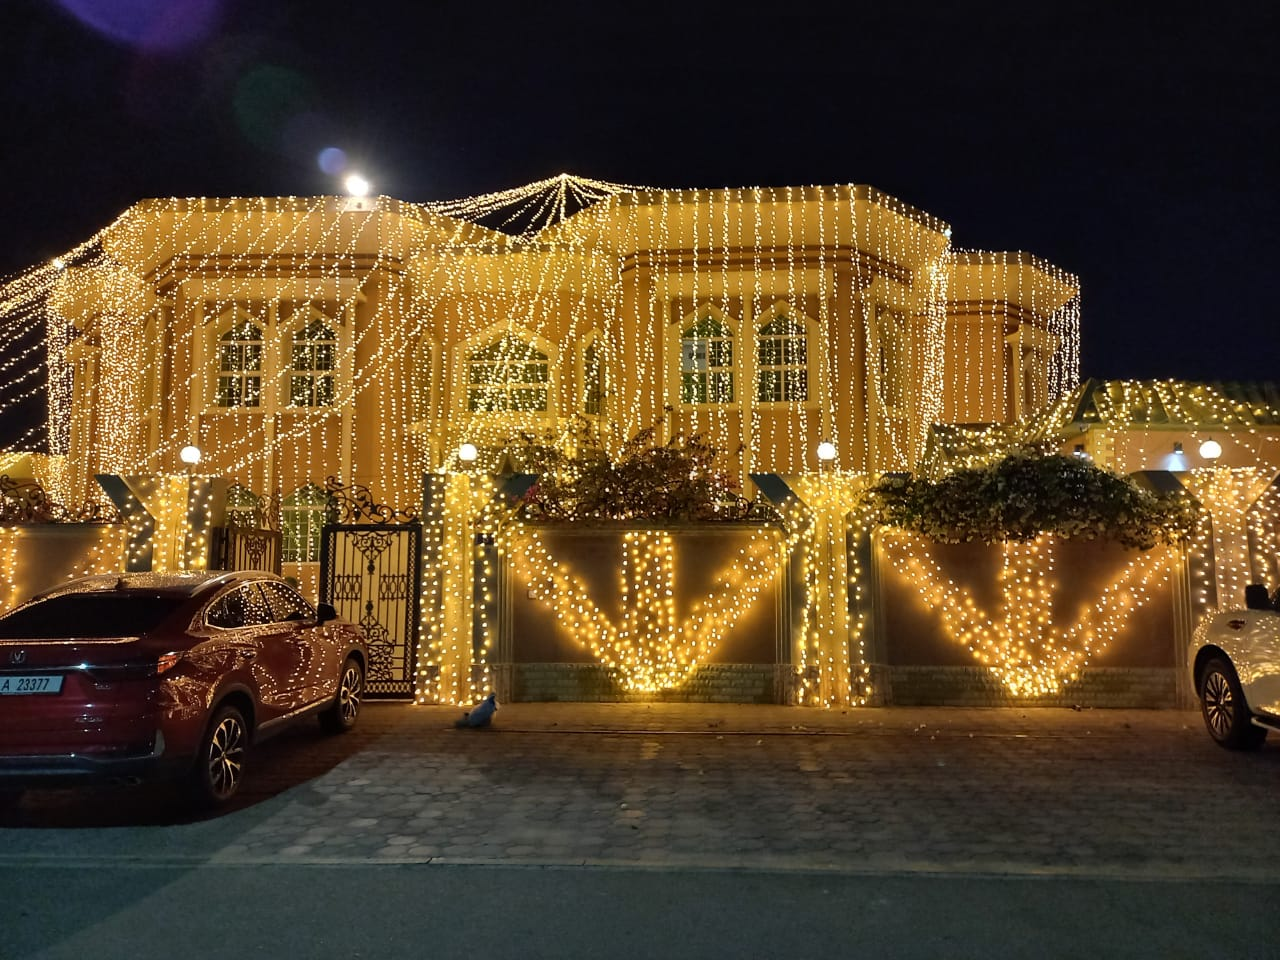
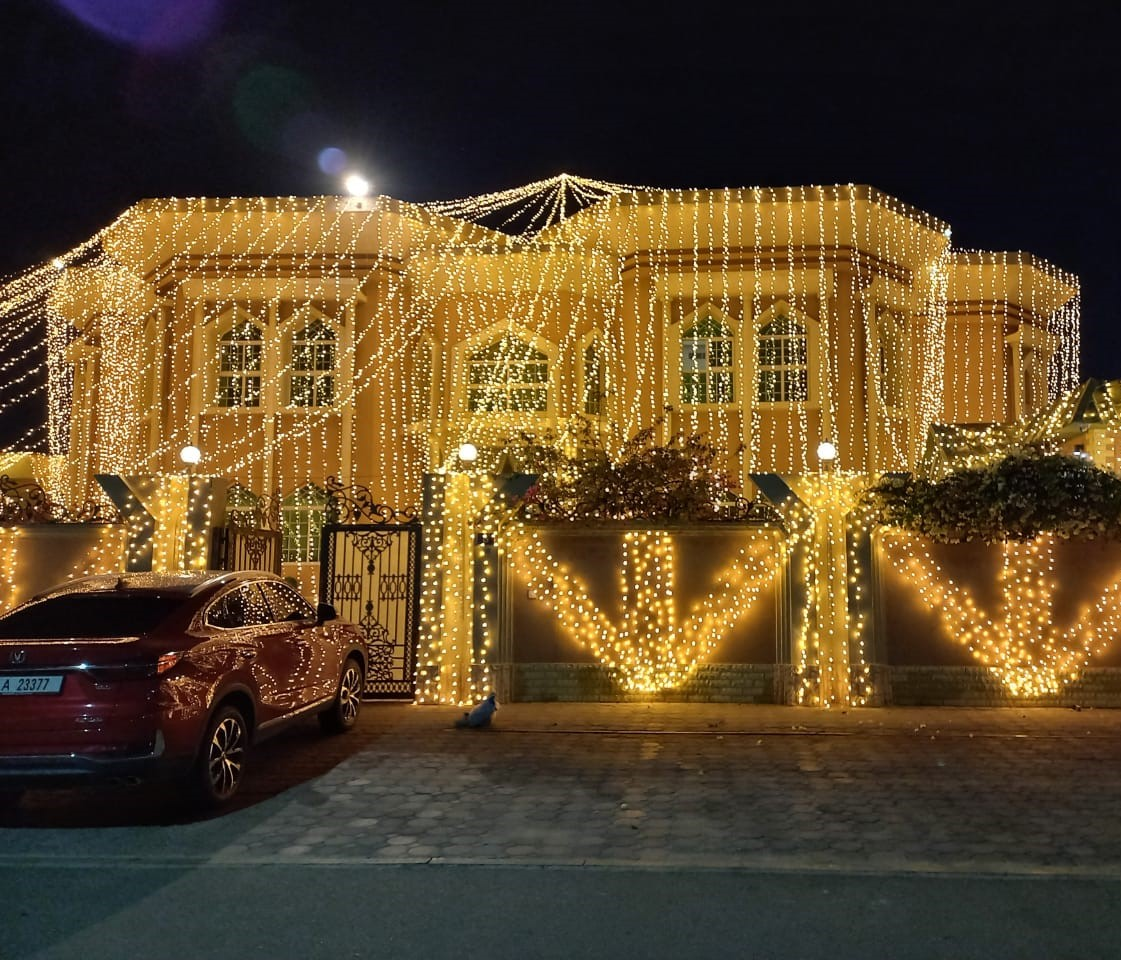
Image Change

diff --git a/index.html b/index.html
@@ -91,7 +91,7 @@
           <!--========== ISLANDS 1 ==========-->
           <section class="islands swiper-slide">
             <img
-              src="assets/img/Fairy lights/b0251967-5cd4-4ed8-a167-16508203c967.jpg"
+              src="assets/img/Fairy lights/WhatsApp Image 2023-06-20 at 10.37.50 PM.jpeg"
               alt=""
               class="islands__bg"
             />
